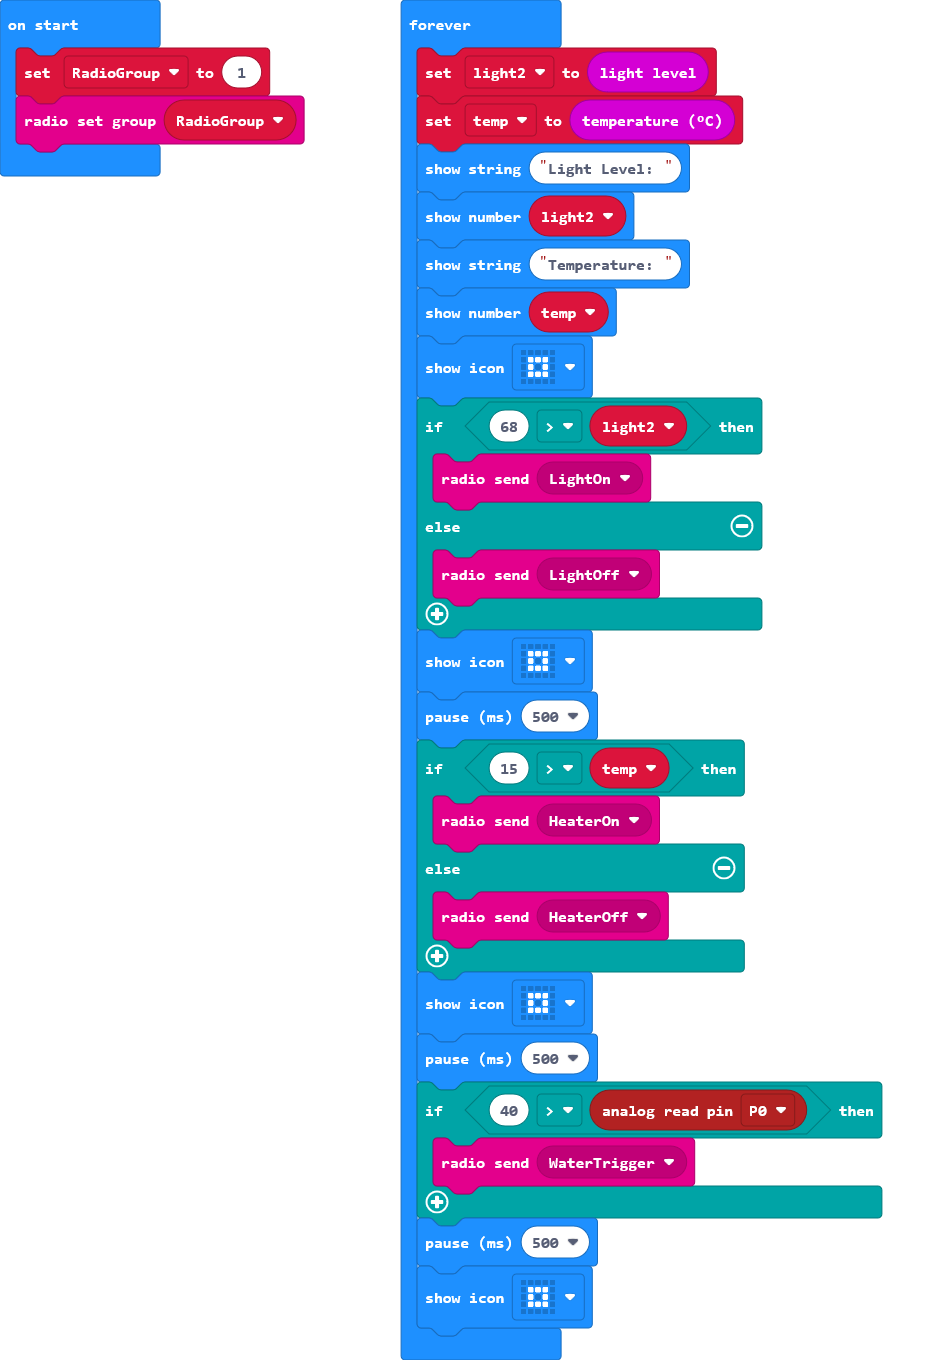
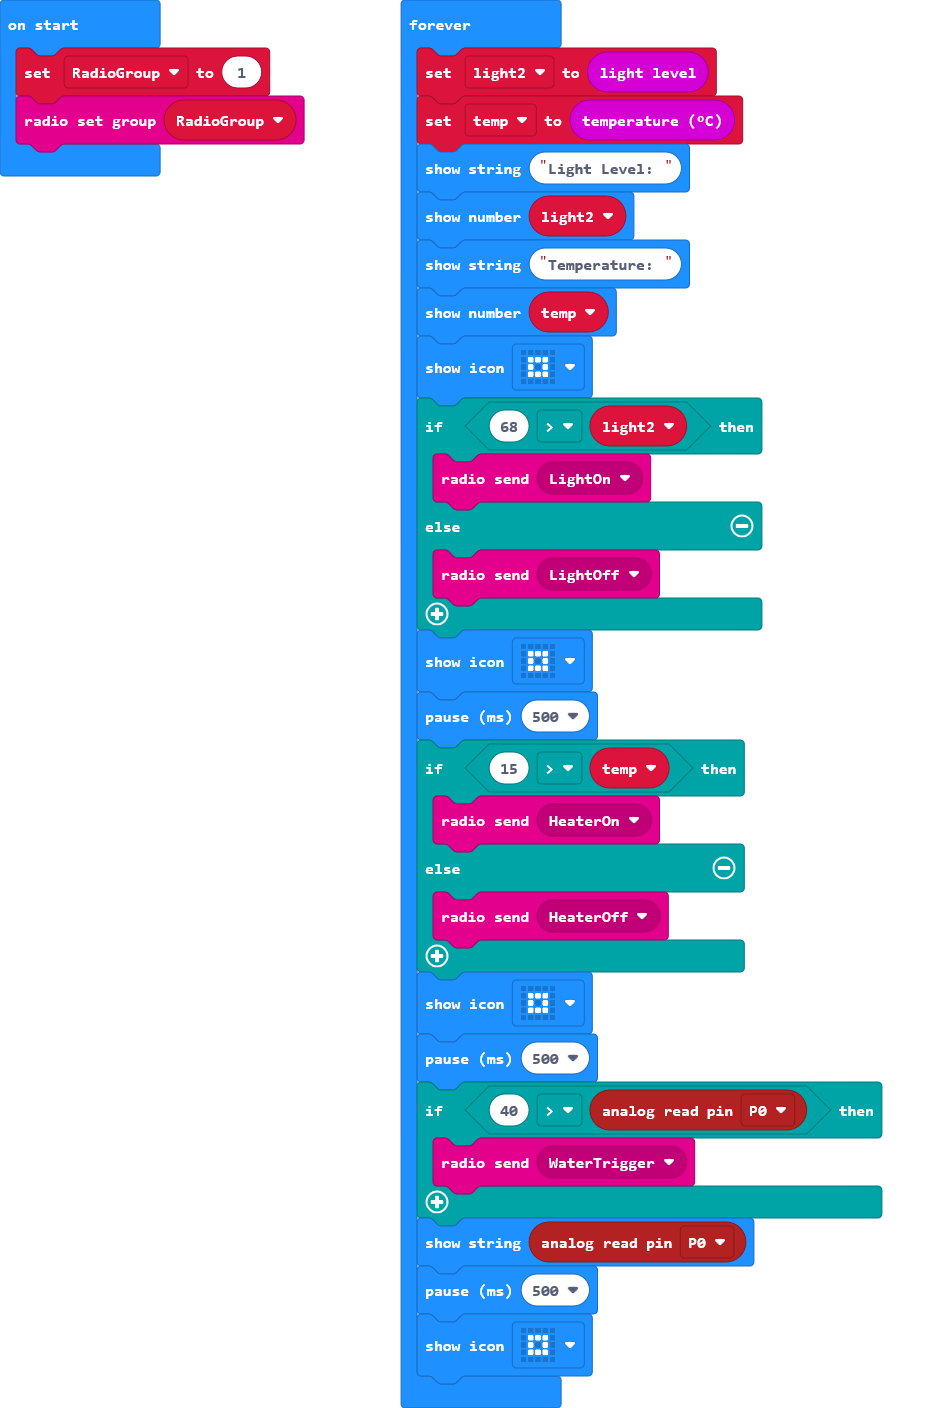
Update main.blocks, main.ts

Changed region(s): [[0.4347, 0.0309, 0.9625, 0.9882], [0.0, 0.0309, 0.3415, 0.1544]]

diff --git a/main.ts b/main.ts
@@ -36,6 +36,7 @@ basic.forever(function () {
     if (40 > pins.analogReadPin(AnalogPin.P0)) {
         radio.sendMessage(RadioMessage.WaterTrigger)
     }
+    basic.showString("" + (pins.analogReadPin(AnalogPin.P0)))
     basic.pause(500)
     basic.showIcon(IconNames.SmallSquare)
 })
